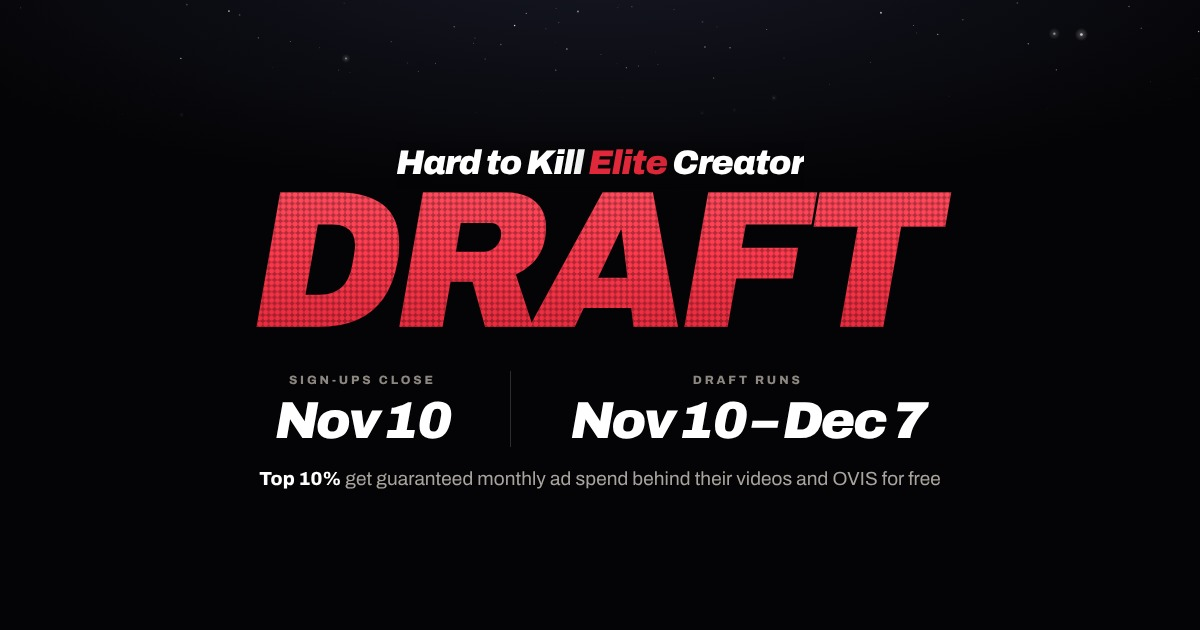
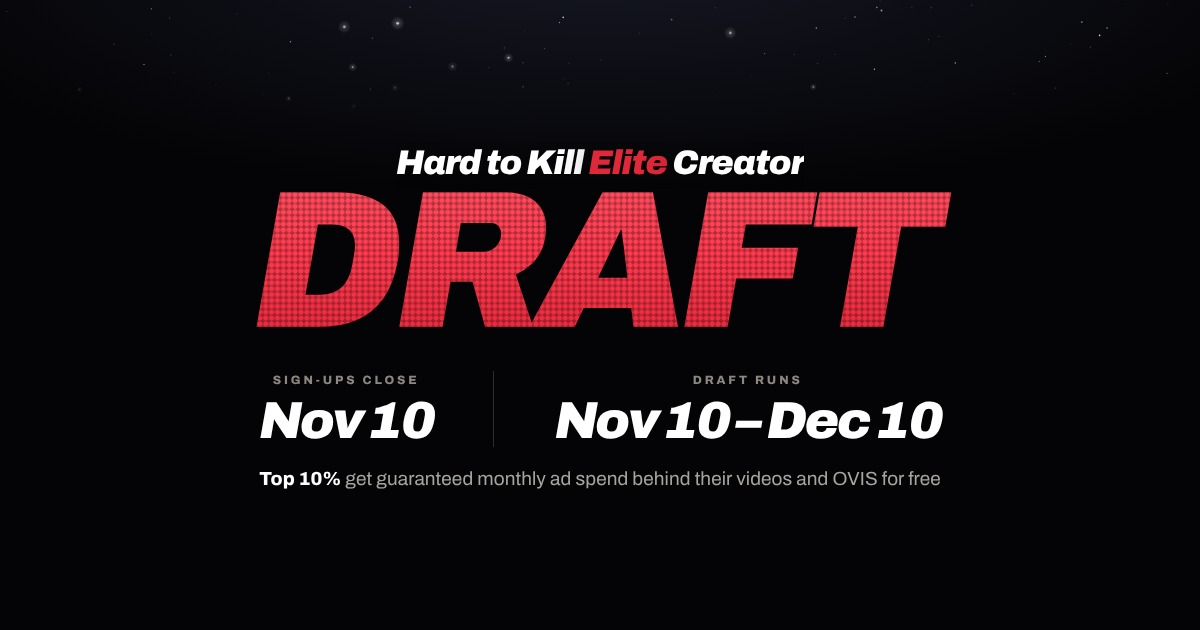
Draft runs Nov 10 to Dec 10

Changed region(s): [[0.4625, 0.6333, 0.8017, 0.6937], [0.2158, 0.573, 0.4008, 0.6937]]

diff --git a/index.html b/index.html
@@ -4,12 +4,12 @@
 <title>Hard to Kill Elite Creator Draft</title>
 <meta charset="utf-8">
 <meta name="viewport" content="width=device-width,initial-scale=1,viewport-fit=cover">
-<meta name="description" content="Sign-ups close Nov 10 · Draft runs Nov 10–Dec 7 · Top 10% get guaranteed monthly ad spend and OVIS free.">
+<meta name="description" content="Sign-ups close Nov 10 · Draft runs Nov 10–Dec 10 · Top 10% get guaranteed monthly ad spend and OVIS free.">
 <meta name="theme-color" content="#e0283a">
 <meta property="og:type" content="website">
 <meta property="og:site_name" content="Hard to Kill Creators">
 <meta property="og:title" content="Hard to Kill Elite Creator Draft">
-<meta property="og:description" content="Sign-ups close Nov 10 · Draft runs Nov 10–Dec 7 · Top 10% get guaranteed monthly ad spend and OVIS free.">
+<meta property="og:description" content="Sign-ups close Nov 10 · Draft runs Nov 10–Dec 10 · Top 10% get guaranteed monthly ad spend and OVIS free.">
 <meta property="og:image" content="https://hardtokill-draft.vercel.app/og.jpg">
 <meta property="og:image:width" content="1200"><meta property="og:image:height" content="630">
 <meta property="og:url" content="https://hardtokill-draft.vercel.app/">
@@ -922,7 +922,7 @@ section.s h2+.lead{margin-bottom:6px}
       <span class="line"><span class="mv" id="mv1"><span class="in d-pre">Hard to Kill <span class="red">Elite</span> Creator</span></span></span>
       <span class="line l2 d-line"><span class="mv" id="mv2"><span class="in d-big">Draft</span></span></span>
     </h1>
-    <div class="dates fade"><div><small>Sign-ups close</small><b>Nov&nbsp;10</b></div><div><small>Draft runs</small><b>Nov&nbsp;10 – Dec&nbsp;7</b></div></div>
+    <div class="dates fade"><div><small>Sign-ups close</small><b>Nov&nbsp;10</b></div><div><small>Draft runs</small><b>Nov&nbsp;10 – Dec&nbsp;10</b></div></div>
     <p class="facts2 perk fade"><span><b>Top 10%</b> get guaranteed monthly ad spend behind their videos and OVIS for free</span></p>
     <div class="row fade">
       <div class="cd-wrap">
@@ -995,7 +995,7 @@ section.s h2+.lead{margin-bottom:6px}
 
       <figure class="vcard">
         <figcaption><span class="vn">2</span><div><b>Say you're in on Discord.</b></div></figcaption>
-        <ul class="tips nl"><li>Open Discord → <b>#elite</b>.</li><li>Post <b>I'm in ✅ @yourhandle</b></li><li>Sign-ups close <b>Tue, Nov&nbsp;10, 11:59&nbsp;PM ET</b>. The draft runs <b>Nov&nbsp;10–Dec&nbsp;7</b>.</li></ul>
+        <ul class="tips nl"><li>Open Discord → <b>#elite</b>.</li><li>Post <b>I'm in ✅ @yourhandle</b></li><li>Sign-ups close <b>Tue, Nov&nbsp;10, 11:59&nbsp;PM ET</b>. The draft runs <b>Nov&nbsp;10–Dec&nbsp;10</b>.</li></ul>
         <div class="copychip"><span id="imin2">I'm in ✅</span><button class="copy" data-copy="imin2" type="button">Copy</button></div>
         <div class="stagex"><div class="phone"><div class="screen dark chat">
           <div class="sbar"><span>9:41</span><span class="sb-r"><i></i><i></i><i></i></span></div><div class="island"></div>
@@ -1088,12 +1088,12 @@ section.s h2+.lead{margin-bottom:6px}
 
     <div class="score" id="score">
       <h2>How Winners <span class="red">Are Picked.</span></h2>
-      <p class="lead"><b>The top 10% with the most points on Dec&nbsp;7 get drafted to the Hard to Kill Elite team.</b> Follow every step above to qualify.</p>
+      <p class="lead"><b>The top 10% with the most points on Dec&nbsp;10 get drafted to the Hard to Kill Elite team.</b> Follow every step above to qualify.</p>
       <div class="pts2" id="ladder">
         <div class="p2"><span class="what">Every <b>"OVIS"</b> comment</span><b class="num">1</b><small>point</small></div>
         <div class="p2 hot"><span class="what">Every <b>sale</b></span><b class="num">10</b><small>points</small></div>
       </div>
-      <p class="nocount">When someone who commented on your post buys, <b>you get the points and the</b> <span class="money">$ commission</span>. Only "OVIS" comments and sales count. No bots. Draft picks announced <b>Dec&nbsp;8</b>.</p>
+      <p class="nocount">When someone who commented on your post buys, <b>you get the points and the</b> <span class="money">$ commission</span>. Only "OVIS" comments and sales count. No bots. Draft picks announced <b>Dec&nbsp;11</b>.</p>
     </div>
   </section>
 
@@ -1137,8 +1137,8 @@ section.s h2+.lead{margin-bottom:6px}
   function pad(n){return String(n).padStart(2,"0")}
   var ms=[
     {t:new Date("2026-11-10T23:59:00-05:00"),l:"Sign-ups close in"},
-    {t:new Date("2026-12-07T23:59:00-05:00"),l:"The draft ends in"},
-    {t:new Date("2026-12-08T12:00:00-05:00"),l:"Draft picks announced in"}
+    {t:new Date("2026-12-10T23:59:00-05:00"),l:"The draft ends in"},
+    {t:new Date("2026-12-11T12:00:00-05:00"),l:"Draft picks announced in"}
   ];
   function set(id,val){var s=$(id).firstChild;if(s.textContent===val)return;s.textContent=val;if(!reduce){s.classList.remove("tick");void s.offsetWidth;s.classList.add("tick")}}
   function tick(){
